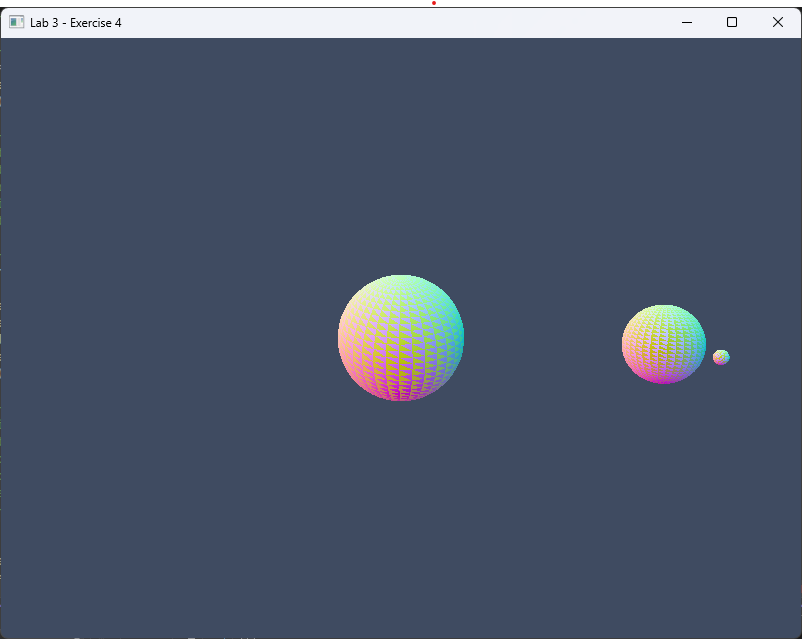
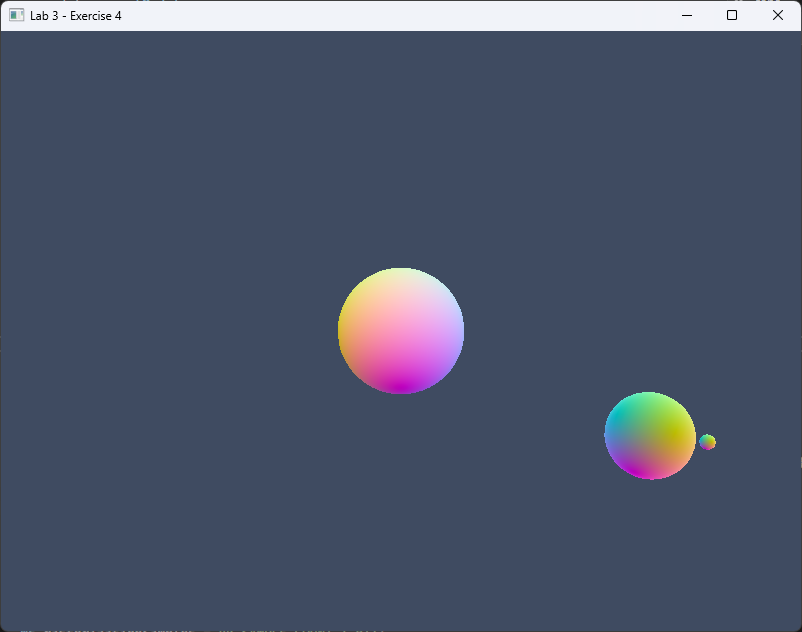
exercise 5 done!!

diff --git a/Lab_Tutorial_Template.cpp b/Lab_Tutorial_Template.cpp
@@ -49,6 +49,19 @@ const bool enableValidationLayers = true;
 // Data
 /////////////////////////////////////////////////////
 
+
+// Match GLSL std140 layout exactly
+// Replace your old UniformBufferObject with this version:
+struct UniformBufferObject {
+    alignas(16) glm::mat4 model;   // per-object model matrix
+    alignas(16) glm::vec4 eye;     // xyz = camera position
+    alignas(16) glm::vec4 center;  // xyz = look-at target
+    alignas(16) glm::vec4 up;      // xyz = world up (e.g., 0,1,0)
+    alignas(16) glm::vec4 cam;     // x=fovy(rad), y=aspect, z=zNear, w=zFar
+};
+
+
+
 struct QueueFamilyIndices {
     std::optional<uint32_t> graphicsFamily;
     std::optional<uint32_t> presentFamily;
@@ -80,11 +93,6 @@ struct Vertex {
     }
 };
 
-struct UniformBufferObject {
-    alignas(16) glm::mat4 model;
-    alignas(16) glm::mat4 view;
-    alignas(16) glm::mat4 proj;
-};
 
 // Cube geometry (triangle strip with degenerates)
 const std::vector<Vertex> Quad_vertices = {
@@ -612,7 +620,7 @@ void HelloTriangleApplication::createGraphicsPipeline() {
     vi.pVertexAttributeDescriptions = attrs.data();
 
     VkPipelineInputAssemblyStateCreateInfo ia{ VK_STRUCTURE_TYPE_PIPELINE_INPUT_ASSEMBLY_STATE_CREATE_INFO };
-    ia.topology = VK_PRIMITIVE_TOPOLOGY_TRIANGLE_STRIP;
+    ia.topology = VK_PRIMITIVE_TOPOLOGY_TRIANGLE_LIST;
     ia.primitiveRestartEnable = VK_FALSE;
 
     VkPipelineViewportStateCreateInfo vp{ VK_STRUCTURE_TYPE_PIPELINE_VIEWPORT_STATE_CREATE_INFO };
@@ -1081,63 +1089,50 @@ void HelloTriangleApplication::recordCommandBuffer(VkCommandBuffer cmd, uint32_t
 /////////////////////////////////////////////////////
 
 void HelloTriangleApplication::updateUniformBuffer(uint32_t currentImage) {
-    // --- Time tracking
+    // --- Time
     static auto start = std::chrono::high_resolution_clock::now();
     float t = std::chrono::duration<float>(
         std::chrono::high_resolution_clock::now() - start).count();
 
-    // --- Camera setup
-    glm::vec3 eye(12.0f, 7.0f, 12.0f);
-    glm::vec3 center(0.0f, 0.0f, 0.0f);
-    glm::vec3 up(0.0f, 1.0f, 0.0f);
+    // --- Camera params (now sent directly, not as matrices)
+    glm::vec3 eye = { 12.0f, 7.0f, 12.0f };
+    glm::vec3 center = { 0.0f, 0.0f,  0.0f };
+    glm::vec3 up = { 0.0f, 1.0f,  0.0f };
 
-    glm::mat4 view = glm::lookAt(eye, center, up);
-    glm::mat4 proj = glm::perspective(glm::radians(45.0f),
-        swapChainExtent.width / (float)swapChainExtent.height,
-        0.1f, 200.0f);
-    proj[1][1] *= -1.0f; // Vulkan Y-flip
+    float fovy = glm::radians(45.0f);
+    float aspect = swapChainExtent.width / (float)swapChainExtent.height;
+    float zNear = 0.1f;
+    float zFar = 200.0f;
 
-    // --- Orbital & rotation speeds
+    // --- Speeds
     float sunSpinDeg = 10.0f;
     float earthOrbitDeg = 40.0f;
     float earthSpinDeg = 120.0f;
     float moonOrbitDeg = 200.0f;
-    float moonSpinDeg = 200.0f;   // same as orbit → tidal lock
 
-    // --- Distances and sizes
-    float earthRadius = 4.0f;   // Sun→Earth
-    float moonRadius = 1.6f;   // Earth→Moon
-
+    // --- Distances / scales
+    float earthRadius = 4.0f;
+    float moonRadius = 1.6f;
     float sunScale = 1.6f;
-    float earthScale = .6f;
+    float earthScale = 0.6f;
     float moonScale = 0.18f;
 
-    // --- Orbit tilts
+    // --- Tilts
     float earthTiltDeg = 15.0f;
     float moonTiltDeg = 5.0f;
 
-    // --- Convert to radians × time
+    // --- Angles
     float sunSpin = glm::radians(sunSpinDeg) * t;
     float earthOrbit = glm::radians(earthOrbitDeg) * t;
     float earthSpin = glm::radians(earthSpinDeg) * t;
     float moonOrbit = glm::radians(moonOrbitDeg) * t;
-    float moonSpin = glm::radians(moonSpinDeg) * t;
 
-    // --------------------------------------------------
-    // SUN (root)
-    // --------------------------------------------------
+    // --- Sun (root)
     glm::mat4 Sun =
         glm::rotate(glm::mat4(1.0f), sunSpin, glm::vec3(0, 1, 0)) *
         glm::scale(glm::mat4(1.0f), glm::vec3(sunScale));
 
-    // --------------------------------------------------
-    // EARTH (relative to Sun)
-    // 1) Start with Sun
-    // 2) Orbital rotation
-    // 3) Translation (radius)
-    // 4) Axial rotation
-    // 5) Scale
-    // --------------------------------------------------
+    // --- Earth (relative to Sun)
     glm::mat4 Earth =
         Sun *
         glm::rotate(glm::mat4(1.0f), glm::radians(earthTiltDeg), glm::vec3(1, 0, 0)) *
@@ -1146,31 +1141,25 @@ void HelloTriangleApplication::updateUniformBuffer(uint32_t currentImage) {
         glm::rotate(glm::mat4(1.0f), earthSpin, glm::vec3(0, 1, 0)) *
         glm::scale(glm::mat4(1.0f), glm::vec3(earthScale));
 
-    // --------------------------------------------------
-    // MOON (relative to Earth)
-    // 1) Start with Earth's final transform
-    // 2) Apply Moon's orbital rotation + translation
-    // 3) Apply Moon's axial spin (tidal lock)
-    // 4) Apply scale
-    // --------------------------------------------------
+    // --- Moon (relative to Earth) with tidal lock (inverse rotation)
     glm::mat4 Moon =
         Earth *
         glm::rotate(glm::mat4(1.0f), glm::radians(moonTiltDeg), glm::vec3(0, 0, 1)) *
         glm::rotate(glm::mat4(1.0f), moonOrbit, glm::vec3(0, 1, 0)) *
         glm::translate(glm::mat4(1.0f), glm::vec3(moonRadius, 0, 0)) *
-        glm::rotate(glm::mat4(1.0f), -moonOrbit, glm::vec3(0, 1, 0)) *  // tidal lock
+        glm::rotate(glm::mat4(1.0f), -moonOrbit, glm::vec3(0, 1, 0)) * // tidal lock
         glm::scale(glm::mat4(1.0f), glm::vec3(moonScale));
 
-    // --------------------------------------------------
-    // UBO writes (Sun, Earth, Moon)
-    // --------------------------------------------------
+    // --- Write 3 UBOs (Sun, Earth, Moon) for this frame
     const uint32_t base = currentImage * 3;
 
     auto writeUBO = [&](uint32_t idx, const glm::mat4& model) {
         UniformBufferObject u{};
         u.model = model;
-        u.view = view;
-        u.proj = proj;
+        u.eye = glm::vec4(eye, 1.0f);
+        u.center = glm::vec4(center, 1.0f);
+        u.up = glm::vec4(up, 0.0f);                  // w unused
+        u.cam = glm::vec4(fovy, aspect, zNear, zFar);
         std::memcpy(uniformBuffersMapped[base + idx], &u, sizeof(u));
         };
 
@@ -1178,6 +1167,7 @@ void HelloTriangleApplication::updateUniformBuffer(uint32_t currentImage) {
     writeUBO(1, Earth);
     writeUBO(2, Moon);
 }
+
 
 
 /////////////////////////////////////////////////////
